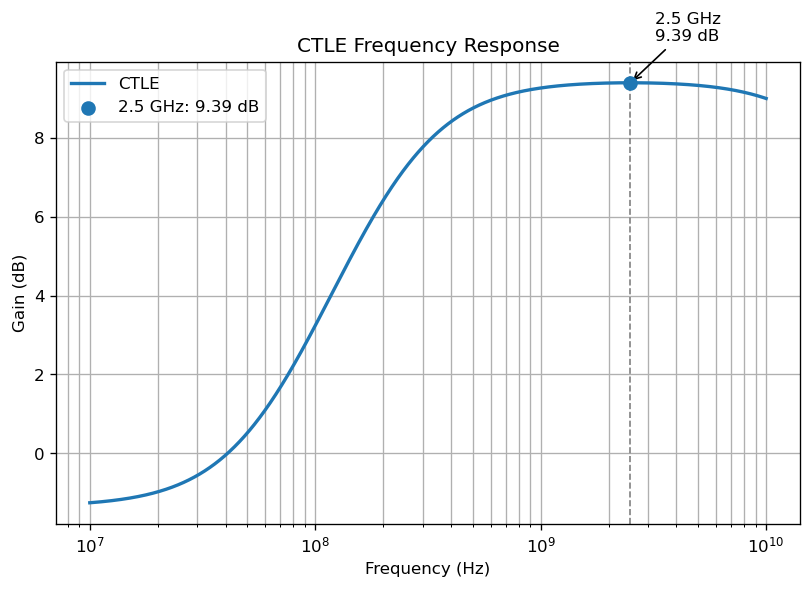
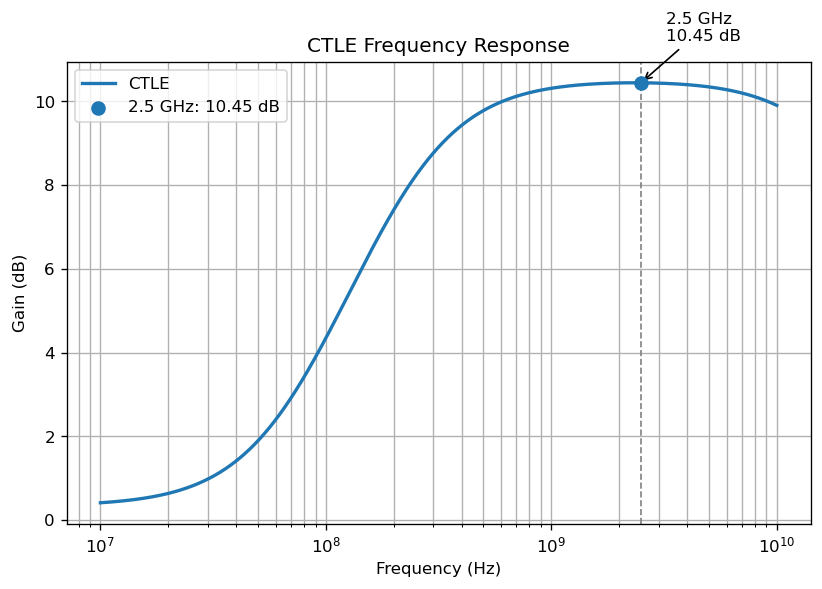
added eye analysis to optimzation loop.

diff --git a/llm_optimizer.py b/llm_optimizer.py
@@ -4,9 +4,10 @@ llm_optimizer.py  –  5-iteration Claude feedback loop for CTLE sizing.
 Each iteration:
   1. Run frequency_response() → save PNG + collect metrics
   2. Run hd3_analysis()       → get HD3 scalar (dB)
-  3. Send plot image + metrics + current params to Claude (vision API)
-  4. Parse the returned params.py code block and overwrite params.py
-  5. Reload params for the next iteration
+  3. Run eye_opening()        → save eye PNG + collect eye width/height metrics
+  4. Send freq plot + eye plot + metrics + current params to Claude (vision API)
+  5. Parse the returned params.py code block and overwrite params.py
+  6. Reload params for the next iteration
 """
 
 import os
@@ -22,10 +23,12 @@ globals().update(vars(core))
 
 from simulation.frequency_response import frequency_response
 from simulation.hd3_analysis import hd3_analysis
+from simulation.eye_analysis import eye_opening
 
 PARAMS_FILE  = Path("evaluation/params.py")
 SPECS_FILE   = Path("evaluation/specs.py")
 PLOTS_DIR    = Path("optimizer_plots")
+EYE_PLOTS_DIR = Path("eye_plots")
 N_ITERATIONS = 5
 
 
@@ -61,7 +64,9 @@ def ask_claude(
     current_params_text: str,
     freq_metrics: dict,
     hd3_db: float,
-    plot_path: Path,
+    freq_plot_path: Path,
+    eye_metrics: dict,
+    eye_plot_path: Path,
 ) -> str:
 
     client = Anthropic(api_key=os.environ["ANTHROPIC_API_KEY"])
@@ -76,6 +81,8 @@ def ask_claude(
     ibias_match = re.search(r'Ibias.*?=\s*([\d.e+-]+)', current_params_text)
     power_mw = 2 * float(ibias_match.group(1)) * 1.8 * 1000 if ibias_match else 0.0
 
+    eye_height_mv = eye_metrics["eye_height"] * 1e3
+
     metrics_summary = (
         f"### Simulation results (iteration {iteration})\n\n"
         f"| Metric            | Value                        | Target                        |\n"
@@ -87,6 +94,9 @@ def ask_claude(
         f"| Peak gain         | {freq_metrics['peak_gain']:.2f} dB @ {freq_metrics['peak_freq']/1e9:.2f} GHz | peak in 1.25–2.5 GHz |\n"
         f"| HD3 @ 100 MHz     | {hd3_db:.2f} dB              | < -30 dB                      |\n"
         f"| Power (est.)      | {power_mw:.1f} mW            | < 15 mW                       |\n"
+        f"| Eye Height        | {eye_height_mv:.1f} mV       | >= 100 mV {'✓ PASS' if eye_metrics['eye_height_pass'] else '✗ FAIL'}  |\n"
+        f"| Eye Width         | {eye_metrics['eye_width']:.3f} UI      | >= 0.4 UI {'✓ PASS' if eye_metrics['eye_width_pass'] else '✗ FAIL'}  |\n"
+        f"| Eye Overall       | {'PASS' if eye_metrics['passed'] else 'FAIL'}                    | Both EH and EW pass           |\n"
     )
 
     user_text = f"""
@@ -94,10 +104,15 @@ def ask_claude(
 
 {metrics_summary}
 
-The frequency-response plot for this iteration is attached as an image. Study the shape carefully:
-- Is the boost in the right frequency range (1.25–2.5 GHz)?
-- Is the boost magnitude within spec (3–12 dB)?
-- Is there excessive peaking or roll-off before Nyquist?
+Two plots are attached as images:
+1. **Frequency-response plot** — Study the boost shape carefully:
+   - Is the boost in the right frequency range (1.25–2.5 GHz)?
+   - Is the boost magnitude within spec (3–12 dB)?
+   - Is there excessive peaking or roll-off before Nyquist?
+2. **Eye diagram** — Study the eye opening carefully:
+   - Is the eye height >= 100 mV?
+   - Is the eye width >= 0.4 UI?
+   - Is the DFE coefficient cancelling ISI effectively, or is it over/under-correcting?
 
 ## Design specs (from `specs.py`)
 ```python
@@ -110,14 +125,15 @@ The frequency-response plot for this iteration is attached as an image. Study th
 ```
 
 ## Parameter constraints (SKY130A)
-| Parameter | Constraint |
-|-----------|-----------|
-| W  | 0.36 … 99.6 µm, multiple of 0.36 µm, **never exceed 99.6 µm** |
-| L  | 0.15 … 2.0 µm |
-| Rs | > 0 Ω |
-| Cs | 0.1 pF … 10 pF |
-| Rd | > 0 Ω |
-| Ibias | 0.1 mA … 5 mA |
+| Parameter       | Constraint |
+|-----------------|------------|
+| W               | 0.36 … 99.6 µm, multiple of 0.36 µm, **never exceed 99.6 µm** |
+| L               | 0.15 … 2.0 µm |
+| Rs              | > 0 Ω |
+| Cs              | 0.1 pF … 10 pF |
+| Rd              | > 0 Ω |
+| Ibias           | 0.1 mA … 5 mA |
+| dfe_coefficient | 0.001 … 0.2 (dimensionless) |
 
 ## Design intuition
 1. **Zero frequency**: `f_z = 1 / (2π·Rs·Cs)` — target ≈ 1–2 GHz for peak at Nyquist.
@@ -125,19 +141,25 @@ The frequency-response plot for this iteration is attached as an image. Study th
 3. **DC gain**: `|Av| ≈ gm·Rd`. Adjust Rd to shift overall level without changing boost shape.
 4. **HD3**: larger W/L and moderate overdrive improves linearity. Increasing Ibias also helps.
 5. **Power**: `P ≈ 2·Ibias·1.8`. Must stay under 15 mW.
+6. **DFE coefficient**: cancels post-cursor ISI. The ideal value equals the ratio of the
+   first post-cursor tap to the main cursor of the channel impulse response.
+   If the eye is open but narrow, try increasing `dfe_coefficient` slightly.
+   If the eye collapses (over-correction), decrease it.
+   Start from the current value and make small, targeted adjustments.
 
 ## Instructions
 
 You are optimizing the CTLE over only 5 iterations.
 
 For this iteration:
-1. Analyze the frequency-response plot and simulation metrics.
-2. Identify the most important problems.
+1. Analyze both the frequency-response plot and the eye diagram.
+2. Identify the most important problems (boost shape, eye height, eye width, HD3).
 3. Choose concrete parameter changes that improve the design.
 4. Prefer small, targeted changes rather than changing every parameter.
 5. The SPICE simulation results are authoritative; the equations above are
    only approximate design intuition.
 6. Respect ALL parameter constraints.
+7. You MUST also tune `dfe_coefficient` if the eye metrics are not passing.
 
 Output the complete updated `params.py` in exactly ONE ```python``` block.
 
@@ -146,9 +168,10 @@ Only change the numeric default values.
 Do not add comments inside the dataclass.
 """
 
-    image_b64 = encode_image(plot_path)
+    freq_image_b64 = encode_image(freq_plot_path)
+    eye_image_b64  = encode_image(eye_plot_path)
 
-    print(f"[llm_optimizer] Iteration {iteration}: sending plot + metrics to Claude…")
+    print(f"[llm_optimizer] Iteration {iteration}: sending freq plot + eye plot + metrics to Claude…")
 
     response = client.messages.create(
         model="claude-opus-4-5",
@@ -163,7 +186,15 @@ Do not add comments inside the dataclass.
                         "source": {
                             "type": "base64",
                             "media_type": "image/png",
-                            "data": image_b64,
+                            "data": freq_image_b64,
+                        },
+                    },
+                    {
+                        "type": "image",
+                        "source": {
+                            "type": "base64",
+                            "media_type": "image/png",
+                            "data": eye_image_b64,
                         },
                     },
                     {
@@ -186,6 +217,7 @@ Do not add comments inside the dataclass.
 
 def run():
     PLOTS_DIR.mkdir(exist_ok=True)
+    EYE_PLOTS_DIR.mkdir(exist_ok=True)
 
     for iteration in range(1, N_ITERATIONS + 1):
         print(f"\n{'='*60}")
@@ -204,15 +236,29 @@ def run():
         )
 
         # ── run simulations ──────────────────────────────────────────
-        plot_path = PLOTS_DIR / f"iter_{iteration:02d}_freq_response.png"
+        freq_plot_path = PLOTS_DIR / f"iter_{iteration:02d}_freq_response.png"
+        eye_plot_path  = EYE_PLOTS_DIR / f"iter_{iteration:02d}_eye.png"
 
         print("[llm_optimizer] Running frequency_response()…")
-        freq_metrics = frequency_response(**kwargs, save_path=plot_path)
+        freq_metrics = frequency_response(**kwargs, save_path=freq_plot_path)
 
         print("[llm_optimizer] Running hd3_analysis()…")
         hd3_db = hd3_analysis(**kwargs)
         print(f"HD3 @ 100 MHz = {hd3_db:.2f} dB  (target < −30 dB)\n")
-        
+
+        print("[llm_optimizer] Running eye_opening()…")
+        eye_metrics = eye_opening(
+            **kwargs,
+            coefficient=params.dfe_coefficient,
+            save_path=eye_plot_path,
+        )
+        print(
+            f"Eye height = {eye_metrics['eye_height']*1e3:.1f} mV  "
+            f"({'PASS' if eye_metrics['eye_height_pass'] else 'FAIL'}), "
+            f"Eye width = {eye_metrics['eye_width']:.3f} UI  "
+            f"({'PASS' if eye_metrics['eye_width_pass'] else 'FAIL'})\n"
+        )
+
         # ── ask Claude ───────────────────────────────────────────────
         current_params_text = read_file(PARAMS_FILE)
         reply = ask_claude(
@@ -220,7 +266,9 @@ def run():
             current_params_text=current_params_text,
             freq_metrics=freq_metrics,
             hd3_db=hd3_db,
-            plot_path=plot_path,
+            freq_plot_path=freq_plot_path,
+            eye_metrics=eye_metrics,
+            eye_plot_path=eye_plot_path,
         )
 
         # ── update params.py ─────────────────────────────────────────
@@ -233,8 +281,9 @@ def run():
         write_params(new_params)
 
     print("\n[llm_optimizer] All iterations complete.")
-    print(f"Plots saved in: {PLOTS_DIR.resolve()}")
-    print(f"Final params:   {PARAMS_FILE.resolve()}")
+    print(f"Freq plots saved in : {PLOTS_DIR.resolve()}")
+    print(f"Eye plots saved in  : {EYE_PLOTS_DIR.resolve()}")
+    print(f"Final params        : {PARAMS_FILE.resolve()}")
 
 
 run()

diff --git a/evaluation/params.py b/evaluation/params.py
@@ -9,8 +9,10 @@ class CTLEParams:
     W: float = 99.6
     L: float = 0.15
 
-    Rs: float = 245.0
+    Rs: float = 230.0
     Cs: float = 9.5e-12
 
     Rd: float = 250.0
     Ibias: float = 1.25e-3
+
+    dfe_coefficient: float = 0.045
